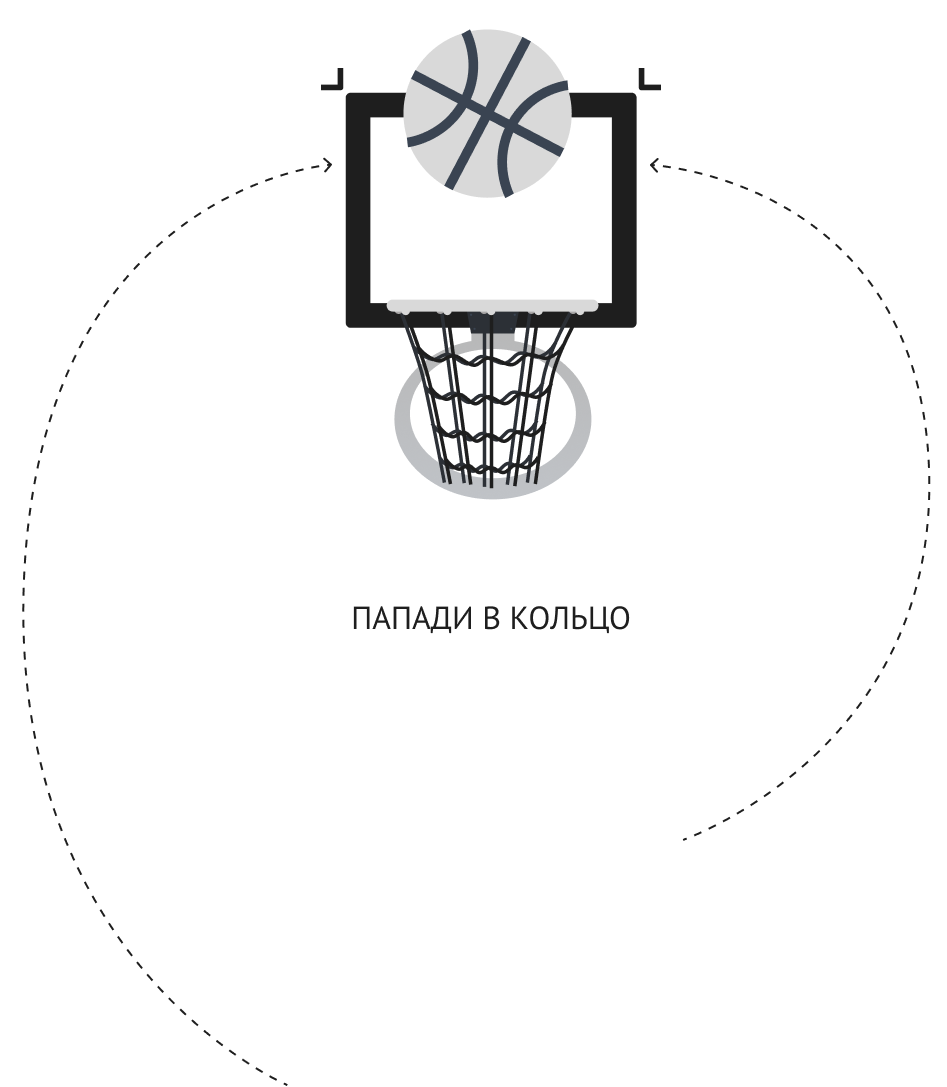
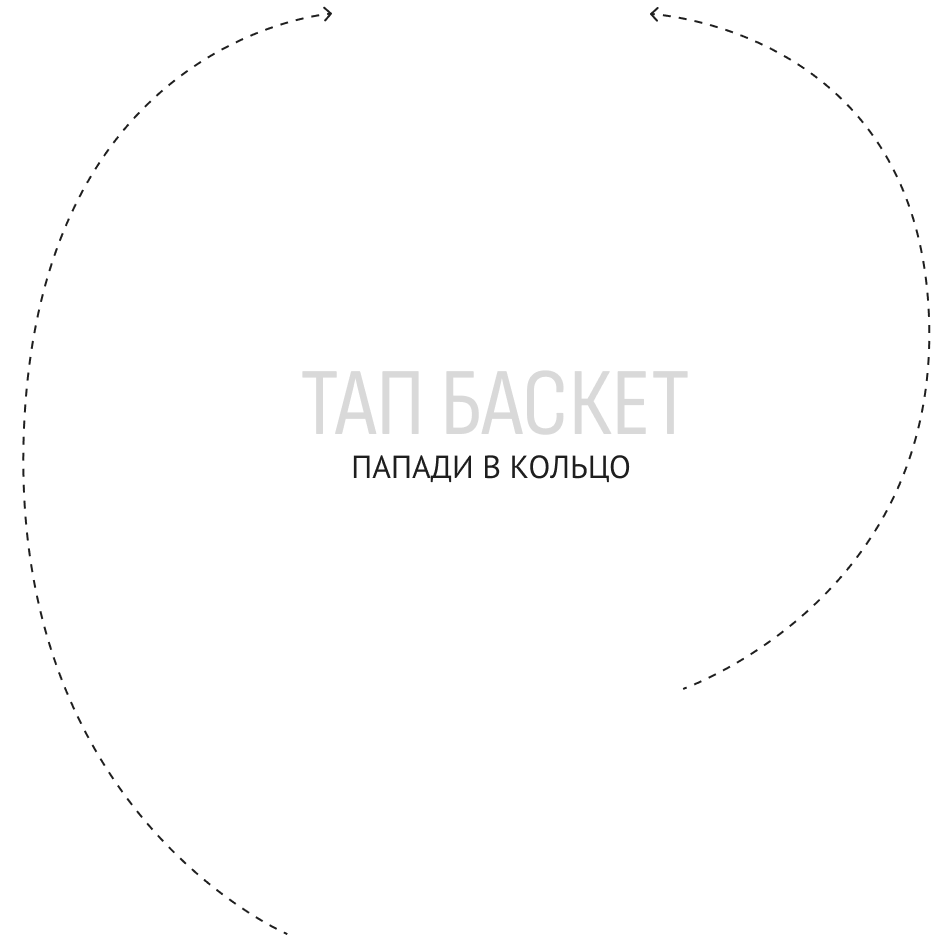
add font

diff --git a/src/scenes/GameOver.js b/src/scenes/GameOver.js
@@ -63,7 +63,8 @@ export class GameOver extends Scene
             this.screenHeight-900, // y
             '', // не активна
             '', // активна
-            'дальше'
+            'дальше',
+            '#D9D9D9'
             );
 
         this.button_new_game.relise = function() { 
@@ -79,7 +80,8 @@ export class GameOver extends Scene
             this.screenHeight-800, // y
             '', // не активна
             '', // активна
-            'еще'
+            'еще',
+            '#D9D9D9'
             );
 
         this.button_new_game.relise = function() { 
@@ -93,7 +95,8 @@ export class GameOver extends Scene
             this.screenHeight-700, // y
             '', // не активна
             '', // активна
-            'в меню'
+            'в меню',
+            '#D9D9D9'
             );
 
         this.button_new_game.relise = function() { 
@@ -111,14 +114,30 @@ export class GameOver extends Scene
         this.button_new_game = new Button(
             this, // сцена
             this.screenWidth/2, // x
-            this.screenHeight-700, // y
+            this.screenHeight-800, // y
             '', // не активна
             '', // активна
-            'еще'
+            'еще',
+            '#D9D9D9'
             );
 
         this.button_new_game.relise = function() { 
             this.scene.start('Game');          
+        };
+
+        // выход в менб
+        this.button_new_game = new Button(
+            this, // сцена
+            this.screenWidth/2, // x
+            this.screenHeight-700, // y
+            '', // не активна
+            '', // активна
+            'в меню',
+            '#D9D9D9'
+            );
+
+        this.button_new_game.relise = function() { 
+            this.scene.start('MainMenu');          
         };
     }
 }

diff --git a/src/scenes/levels.js b/src/scenes/levels.js
@@ -8,28 +8,11 @@ export class Levels extends Scene
     constructor ()
     {
         super('Levels');
+    }
 
-        this.levels = [
-            [0,{x:200,y:700},1],
-            [1,{x:300,y:700},0],[2,{x:550,y:800},0],
-            [3,{x:550,y:300},0],[4,{x:550,y:600},0],
-
-            [5,{x:415,y:546},0],[6,{x:662,y:462},0],
-            [7,{x:696,y:336},0],[8,{x:342,y:400},0],
-
-            [9,{x:558,y:586},0],[10,{x:411,y:543},0],
-            [11,{x:641,y:450},0],[12,{x:362,y:1045},0],
-
-            [13,{x:630,y:890},0],[14,{x:200,y:700},0],
-            [15,{x:200,y:700},0],[16,{x:200,y:700},0],
-
-            [17,{x:200,y:700},0],[18,{x:200,y:700},0],
-            [19,{x:200,y:700},0],[20,{x:200,y:700},0],
-
-            [21,{x:200,y:700},0],[22,{x:200,y:700},0],
-            [23,{x:200,y:700},0],           
-
-        ]
+    preload() {
+        const game = this.scene.get('Game');
+        this.levels = game.levels;
     }
 
     create (){
@@ -52,7 +35,7 @@ export class Levels extends Scene
                row += 1; 
                col = 0 ;
             }
-            this.printBtn(200*col+230,200*row+300,item[0],item[1],item[2]);
+            this.printBtn(208*col+220,211*row+260,item[0],item[1],item[2]);
             col +=1;
         });
 
@@ -64,15 +47,13 @@ export class Levels extends Scene
                 '','',
                 // 'start_button_activ', // не активна
                 // 'start_button', // активна
-                'назад'
+                'назад',
+                '#D9D9D9'
                 );
 
             this.button_new_game.relise = function() { 
                 this.scene.start('MainMenu');          
             }; 
-
-        
-
     }
 
 

diff --git a/src/scenes/Game.js b/src/scenes/Game.js
@@ -26,10 +26,10 @@ export class Game extends Scene
 
         this.levels = [
             [0,{x:200,y:700},1],
-            [1,{x:300,y:700},0],[2,{x:550,y:800},0],
-            [3,{x:550,y:300},0],[4,{x:550,y:600},0],
+            [1,{x:300,y:700},1],[2,{x:550,y:800},1],
+            [3,{x:550,y:300},1],[4,{x:550,y:600},1],
 
-            [5,{x:415,y:546},0],[6,{x:662,y:462},0],
+            [5,{x:415,y:546},1],[6,{x:662,y:462},1],
             [7,{x:696,y:336},0],[8,{x:342,y:400},0],
 
             [9,{x:558,y:586},0],[10,{x:411,y:543},0],
@@ -66,7 +66,7 @@ export class Game extends Scene
         this.perfect = 0;
 
         const win_scren = this.scene.get('GameOver');
-         win_scren.star = 0;
+        win_scren.star = 0;
 
     }
 
@@ -78,7 +78,7 @@ export class Game extends Scene
         this.add.image(540, 984, 'bg2');
         this.attempts = 3;
 
-        this.add.text(350, 500, this.level, { fontSize: '764px', fill: '#37404D' });
+        this.add.text(350, 500, this.level, { fontFamily: 'Sofia Sans Condensed', fontSize: '764px', fill: '#37404D' });
 
         let score = 0;
         let scoreText;  
@@ -134,7 +134,8 @@ export class Game extends Scene
                         const win_scren = this.scene.get('GameOver');
                         if(this.perfect === 1){                            
                             win_scren.star = 1;
-                        }                        
+                        }
+                        this.levels[this.level][2] = 1;                        
                         setTimeout(this.gameOver, 1500);
                         
                     }

diff --git a/src/scenes/MainMenu.js b/src/scenes/MainMenu.js
@@ -24,7 +24,8 @@ export class MainMenu extends Scene
                 '','',
                 // 'start_button_activ', // не активна
                 // 'start_button', // активна
-                'старт'
+                'старт',
+                '#D9D9D9'
                 );
 
             this.button_new_game.relise = function() { 
@@ -39,7 +40,8 @@ export class MainMenu extends Scene
                 '','',
                 // 'start_button_activ', // не активна
                 // 'start_button', // активна
-                'рандом'
+                'рандом',
+                '#D9D9D9'
                 );
 
             this.button_new_game.relise = function() { 
@@ -54,9 +56,10 @@ export class MainMenu extends Scene
                 this, // сцена
                 screenWidth/2, // x
                 screenHeight-500, // y
-                'start_settings_activ', // не активна
-                'start_settings', // активна
-                'настройки'
+                '', // не активна
+                '', // активна
+                'настройки',
+                '#D9D9D9'
                 );
 
             this.button_settings.relise = function() { 

diff --git a/index.html b/index.html
@@ -5,6 +5,9 @@
     <link rel="icon" type="image/png" href="./favicon.png" />
     <meta name="viewport" content="width=device-width, initial-scale=1.0" />
     <link rel="stylesheet" href="./style.css">
+    <link rel="preconnect" href="https://fonts.googleapis.com">
+    <link rel="preconnect" href="https://fonts.gstatic.com" crossorigin>
+    <link href="https://fonts.googleapis.com/css2?family=Sofia+Sans+Condensed:wght@700&display=swap" rel="stylesheet">
     <title>Phaser - Template</title>
     <style>
         body {

diff --git a/src/utils/button.js b/src/utils/button.js
@@ -14,7 +14,9 @@ export default class Button extends Phaser.GameObjects.Sprite {
         
         if(text!=undefined){
             this.text = scene.add.text(x, y, text, {
-            fontFamily: 'Alumni Sans Pinstripe', fontSize: 64, color: color,
+            fontFamily: 'Sofia Sans Condensed', 
+            fontSize: 64, 
+            color: color,
             // stroke: '#000000', strokeThickness: 8,
             align: 'center'
             }).setOrigin(0.5);

diff --git a/src/main.js b/src/main.js
@@ -18,7 +18,7 @@ const config = {
         default: 'matter',
         matter: {
             gravity: { y: 1 },
-            debug: true
+            debug: false
         }
     },
     scale: {
